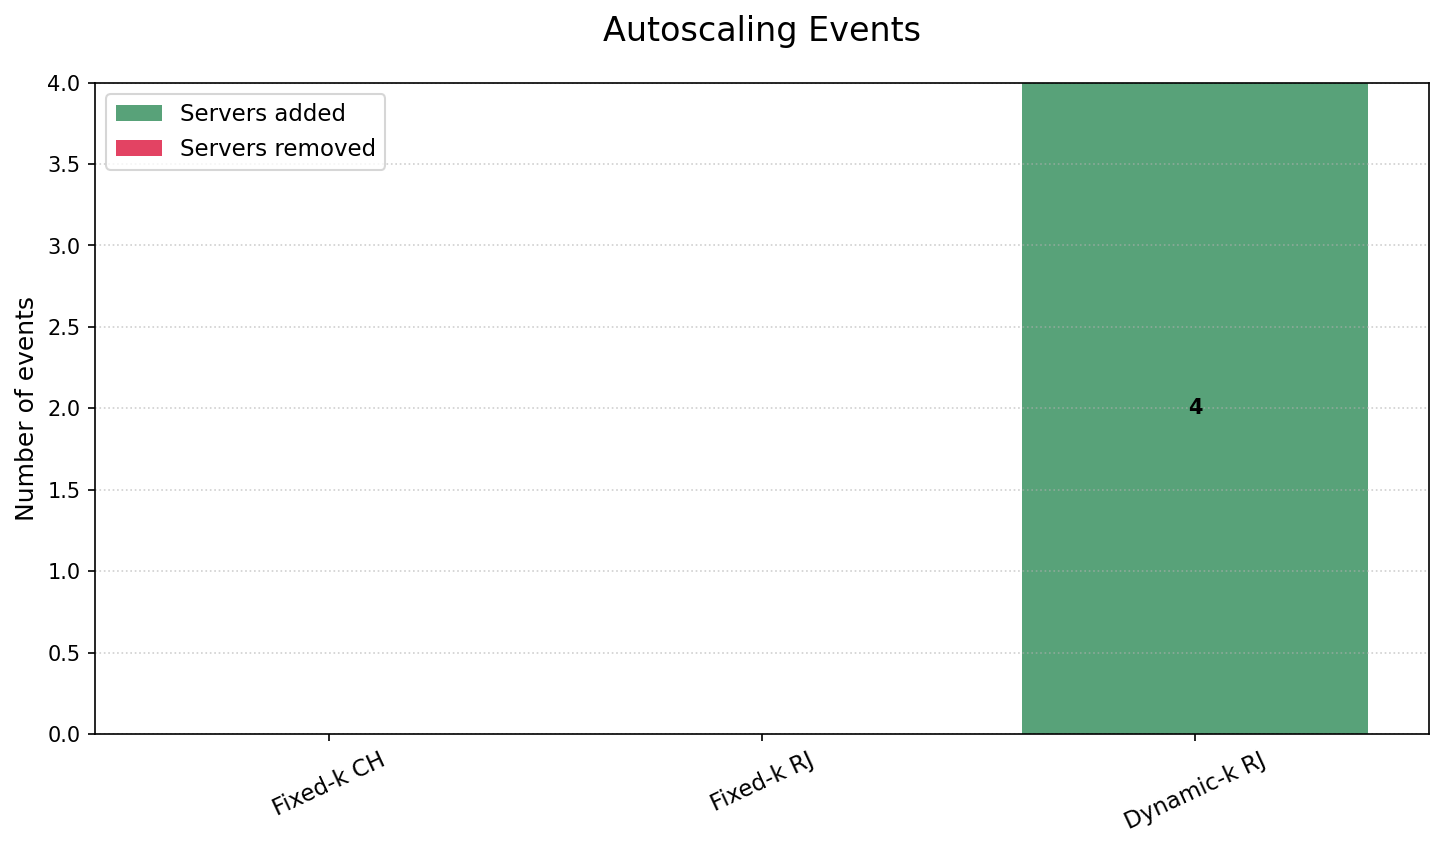
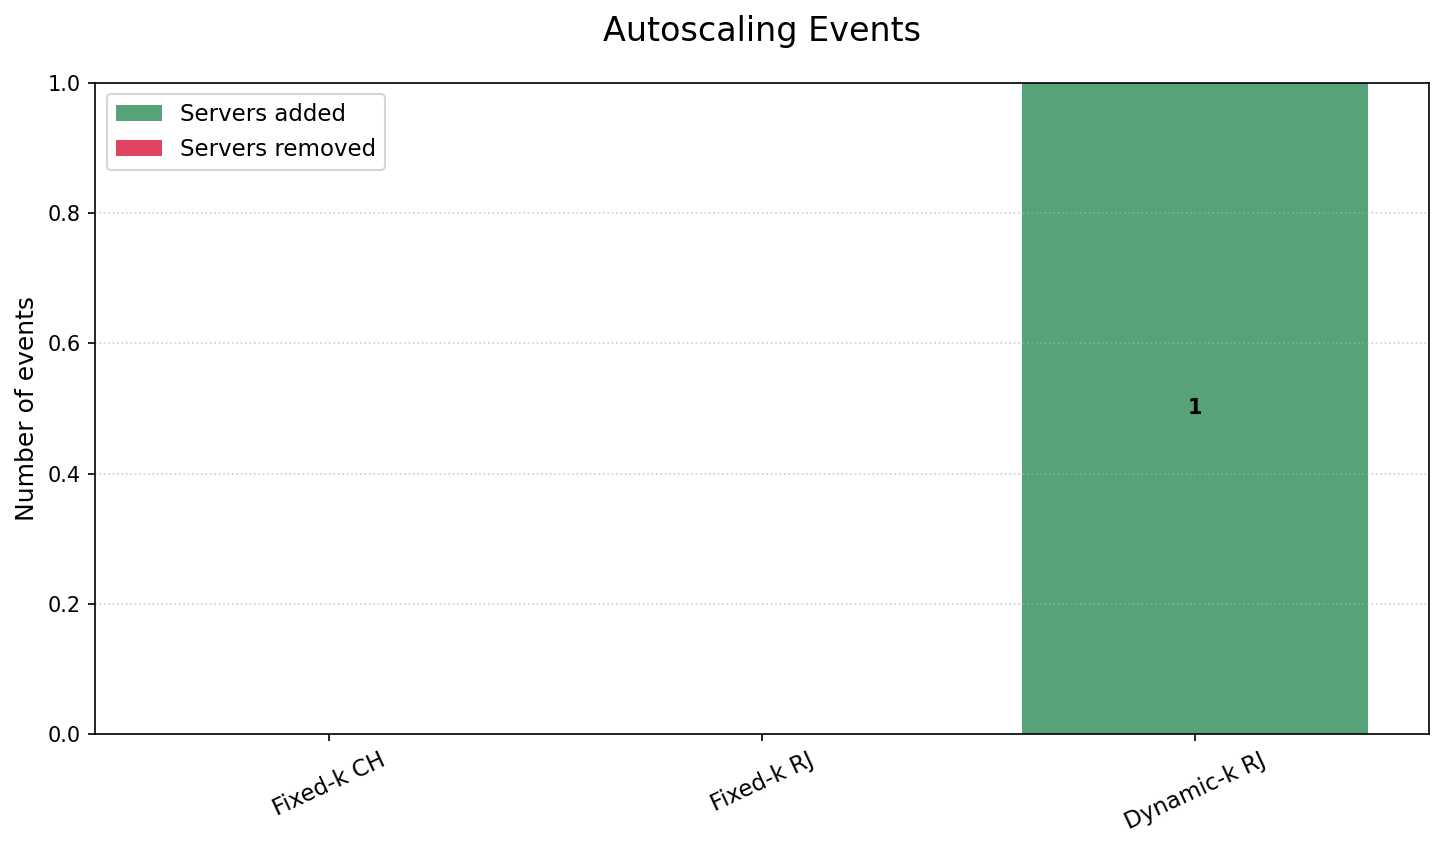
added comments and implemented functions

diff --git a/hashing_algorithms.py b/hashing_algorithms.py
@@ -157,3 +157,40 @@ class BoundedHashRing_RehashThreshold(ConsistentHashRing):
             self.key_assignments[key] = least
             return least, self.max_attempts
         return None, self.max_attempts
+
+    def get_natural_server_for_key(self, key):
+        """Find the server this key would naturally hash to (first clockwise)."""
+        if not self.ring:
+            return None
+        h = self._hash(key)
+        return self.get_server_for_hash(h)
+
+    # TODO: Delete item function, if the initial k servers have enough capacity, we can delete the key from the server that we created if we
+    # had to rehash it to another server. This would free up space on the original server. So we delete the key and then create a new one as soon as the
+    # Go over these function again.
+    def delete_key(self, key):
+        """Remove a key assignment and free up server capacity."""
+        if key in self.key_assignments:
+            server = self.key_assignments[key]
+            if server in self.server_loads:
+                self.server_loads[server] -= 1
+            del self.key_assignments[key]
+            return server
+        return None
+
+    def can_remove_empty_servers(self, protected_servers=None):
+        """Find servers that are empty and can be removed."""
+        protected_servers = protected_servers or set()
+        removable = []
+
+        for server, load in self.server_loads.items():
+            if load == 0 and server not in protected_servers:
+                removable.append(server)
+
+        return removable
+
+    def get_keys_on_server(self, server_name):
+        """Get all keys currently assigned to a specific server."""
+        return [
+            key for key, server in self.key_assignments.items() if server == server_name
+        ]

diff --git a/main_simulation.py b/main_simulation.py
@@ -235,7 +235,7 @@ def run_all():
     fixed_ch_stats = run_fixed_k_ch(keys)
     fixed_rj_stats = run_fixed_k_rj(keys)
     dynamic_rj_stats = run_dynamic_k_rj(keys)
-    run_spike_experiment(steady_keys=500, spike_keys=3000, snapshot_interval=500)
+    run_spike_experiment(steady_keys=1000, spike_keys=8000, snapshot_interval=500)
 
     from createplots import plot_stats_comparison
 

diff --git a/config.py b/config.py
@@ -1,7 +1,7 @@
 # Simulation / environment defaults
-NUM_SERVERS = 8
-SERVER_CAPACITY = 100
-NUM_KEYS_UNIFORM = 1000
+NUM_SERVERS = 3
+SERVER_CAPACITY = 30
+NUM_KEYS_UNIFORM = 10000
 NUM_KEYS_SKEWED = 1000
 
 # Hash ring tuning

diff --git a/data_generator.py b/data_generator.py
@@ -1,5 +1,4 @@
 import numpy as np
-import random
 from config import NUM_KEYS_UNIFORM, DLB_ZIPF_ALPHA
 
 

diff --git a/createplots.py b/createplots.py
@@ -1,4 +1,3 @@
-import math
 import matplotlib.pyplot as plt
 
 
